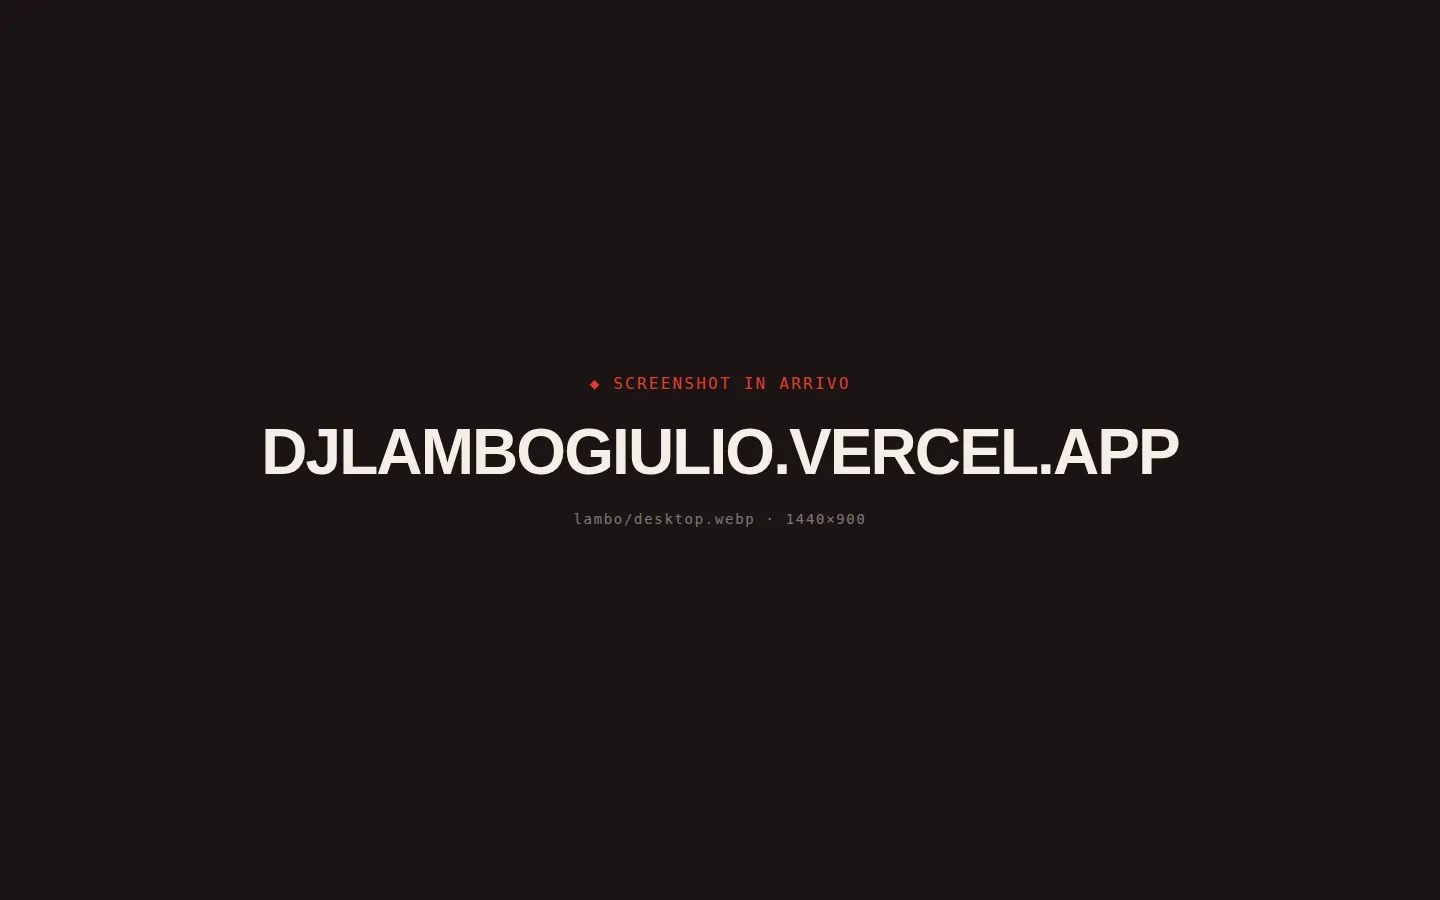
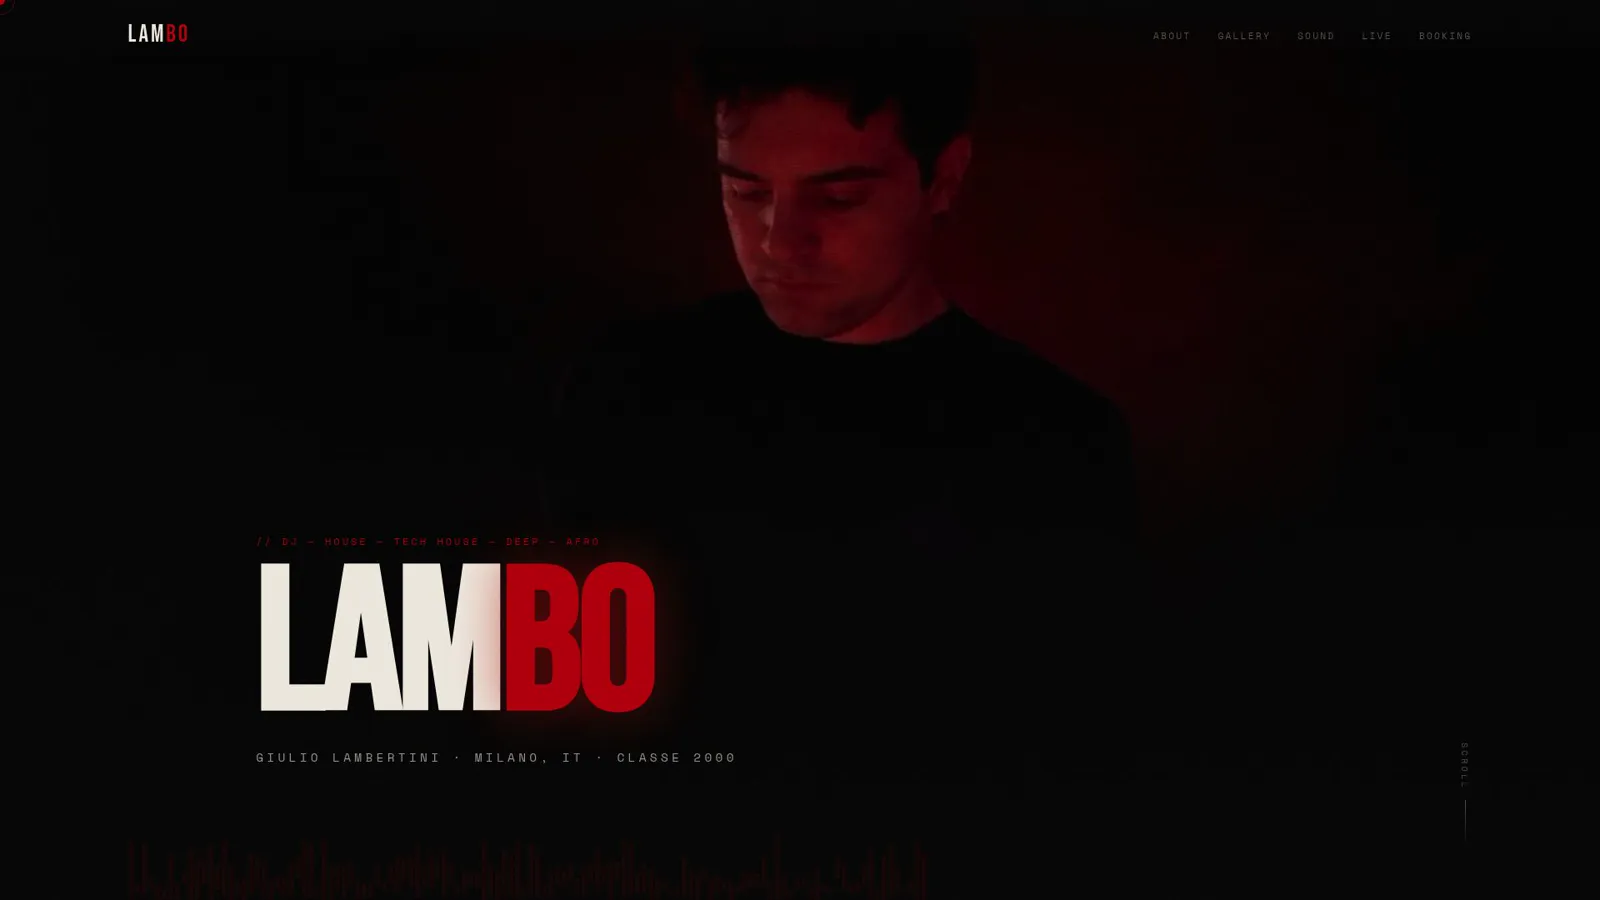
Lavori: screenshot reali di Villa Pet Sitter, Virtus e LAMBO (#4)
- Sostituiti i segnaposto con gli screenshot forniti: Villa Pet Sitter
  prima/dopo mobile e dopo desktop, Virtus Welcome Kit (home), LAMBO
- Riquadri desktop in 16:9 (slider e card /progetti), mobile 780×1392
  come gli screenshot da telefono
- Resta segnaposto solo villa-pet-sitter/prima-desktop.webp

Claude-Session: https://claude.ai/code/session_015Keoej9DX6EQa4BQDFSmZx

diff --git a/components/ui/BeforeAfter.tsx b/components/ui/BeforeAfter.tsx
@@ -6,7 +6,7 @@ import { GripVertical } from "lucide-react";
 
 /**
  * BeforeAfter · slider "prima / dopo" su screenshot statici.
- * - Desktop (≥ md) usa gli screenshot 1440×900, mobile quelli 390×844
+ * - Desktop (≥ md) usa gli screenshot 16:9 (1600×900), mobile quelli 780×1392
  * - Pointer events: mouse, touch e penna con la stessa logica
  * - Tastiera: frecce ←/→ (Shift = passo lungo), Home/End
  */
@@ -82,7 +82,7 @@ export default function BeforeAfter({ before, after, beforeLabel, afterLabel }: 
   return (
     <div
       ref={boxRef}
-      className="relative w-full max-w-[360px] md:max-w-none mx-auto aspect-[390/844] md:aspect-[16/10] overflow-hidden rounded-xl select-none border border-obsidian/10 shadow-atelier-lg bg-obsidian cursor-ew-resize"
+      className="relative w-full max-w-[360px] md:max-w-none mx-auto aspect-[780/1392] md:aspect-[16/9] overflow-hidden rounded-xl select-none border border-obsidian/10 shadow-atelier-lg bg-obsidian cursor-ew-resize"
       // pan-y: su mobile lo scroll verticale resta libero, il trascinamento orizzontale muove lo slider
       style={{ touchAction: "pan-y" }}
       onPointerDown={(e) => {

diff --git a/components/sections/Projects.tsx b/components/sections/Projects.tsx
@@ -103,7 +103,7 @@ export default function Projects() {
                 target="_blank"
                 rel="noopener noreferrer"
                 aria-label={`${p.name}: apri il sito in una nuova scheda`}
-                className={`group lg:col-span-7 block relative aspect-[16/10] overflow-hidden rounded-xl border border-obsidian/10 shadow-atelier-lg bg-obsidian ${i % 2 === 1 ? "lg:order-2" : ""}`}
+                className={`group lg:col-span-7 block relative aspect-[16/9] overflow-hidden rounded-xl border border-obsidian/10 shadow-atelier-lg bg-obsidian ${i % 2 === 1 ? "lg:order-2" : ""}`}
               >
                 <Image
                   src={p.image}
